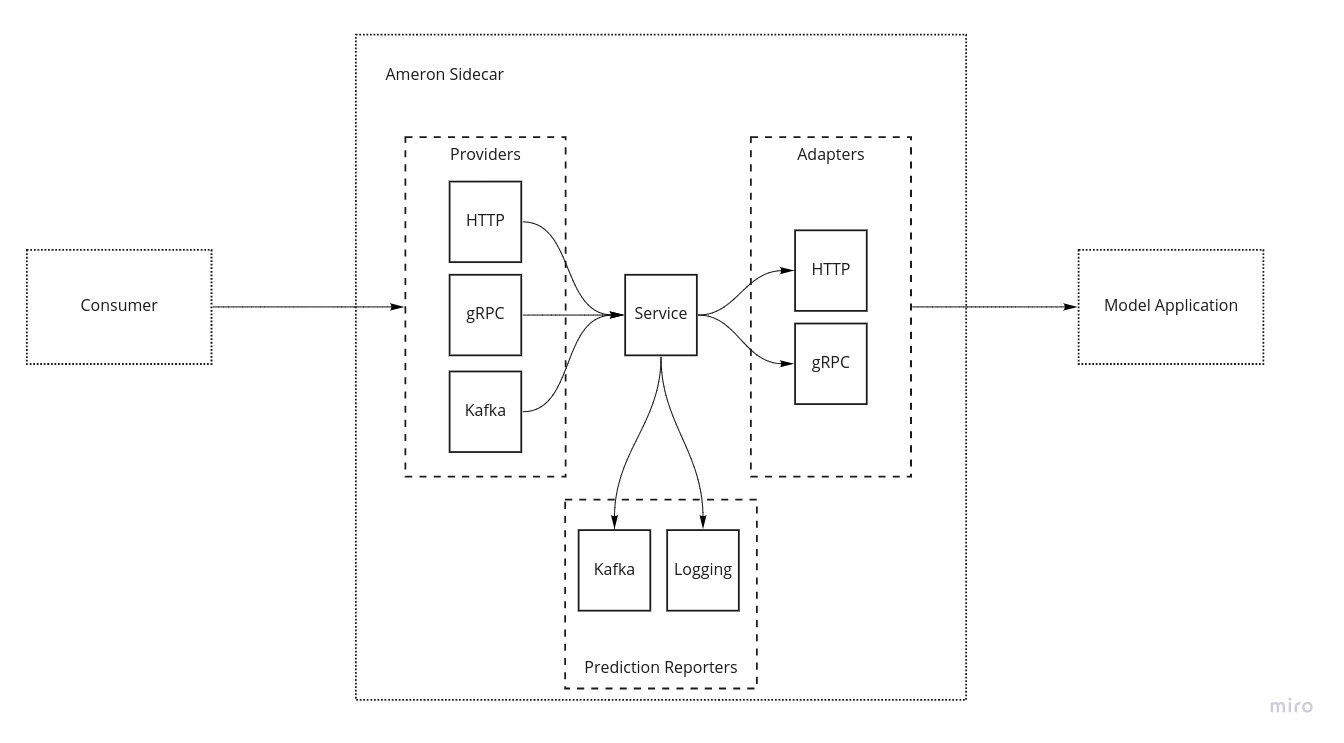
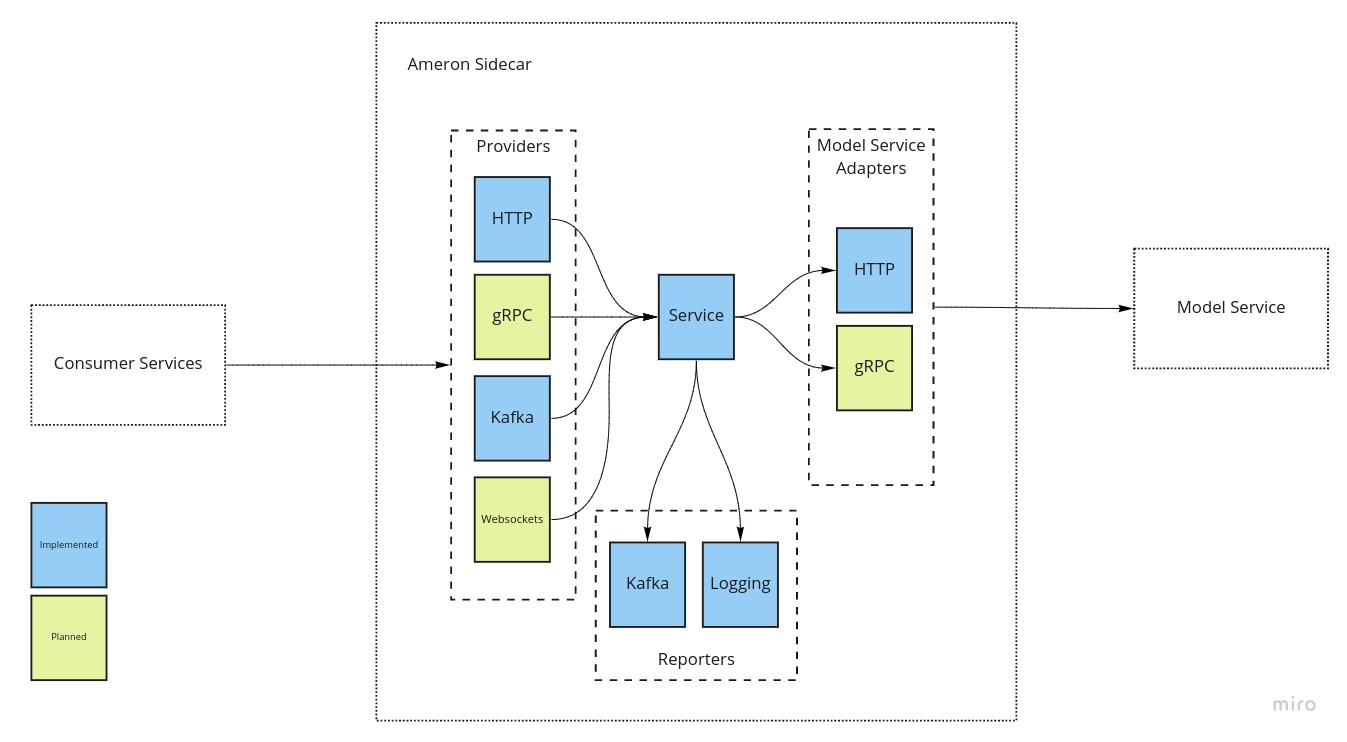
Match component naming to README

diff --git a/src/main/java/ai/ameron/sidecar/integration/reporter/stream/StreamPredictionEventConsumer.java b/src/main/java/ai/ameron/sidecar/integration/reporter/stream/StreamPredictionEventConsumer.java
@@ -1,4 +1,4 @@
-package ai.ameron.sidecar.integration.event.stream;
+package ai.ameron.sidecar.integration.reporter.stream;
 
 import ai.ameron.sidecar.core.event.PredictionEvent;
 import lombok.AllArgsConstructor;

diff --git a/src/main/java/ai/ameron/sidecar/integration/reporter/log/LoggerPredictionEventConsumer.java b/src/main/java/ai/ameron/sidecar/integration/reporter/log/LoggerPredictionEventConsumer.java
@@ -1,4 +1,4 @@
-package ai.ameron.sidecar.integration.event.logger;
+package ai.ameron.sidecar.integration.reporter.log;
 
 import ai.ameron.sidecar.core.event.PredictionEvent;
 import lombok.extern.slf4j.Slf4j;

diff --git a/src/main/java/ai/ameron/sidecar/integration/reporter/stream/StreamPredictionEventConsumerConfiguration.java b/src/main/java/ai/ameron/sidecar/integration/reporter/stream/StreamPredictionEventConsumerConfiguration.java
@@ -1,4 +1,4 @@
-package ai.ameron.sidecar.integration.event.stream;
+package ai.ameron.sidecar.integration.reporter.stream;
 
 import lombok.AccessLevel;
 import lombok.Getter;

diff --git a/README.md b/README.md
@@ -26,8 +26,8 @@ A Provider exposes an API for clients to call to get Predictions. REST and Kakfa
 ### Model Service Adapter
 A Model Service executes a Model. The Adapters provide a mechanism to call these Services. HTTP has been implemented.
 
-### Prediction Reporter 
-A Prediction Reporter sends Predictions for later usage. For example analysis by monitoring systems or for usage in training.
+### Reporter 
+A Reporter sends Predictions for later usage. For example, analysis by monitoring systems or for usage in training.
 
 ## Provider APIs
 ### Synchronous
@@ -46,6 +46,10 @@ Run just the Sidecar:
 Run the Sidecar, and a local Kafka and Zookeeper instances
 
     make run-all
+
+Run a local Kafka and Zookeeper instances
+
+    make run-supporting
 
 # Roadmap
 - Performance tests
